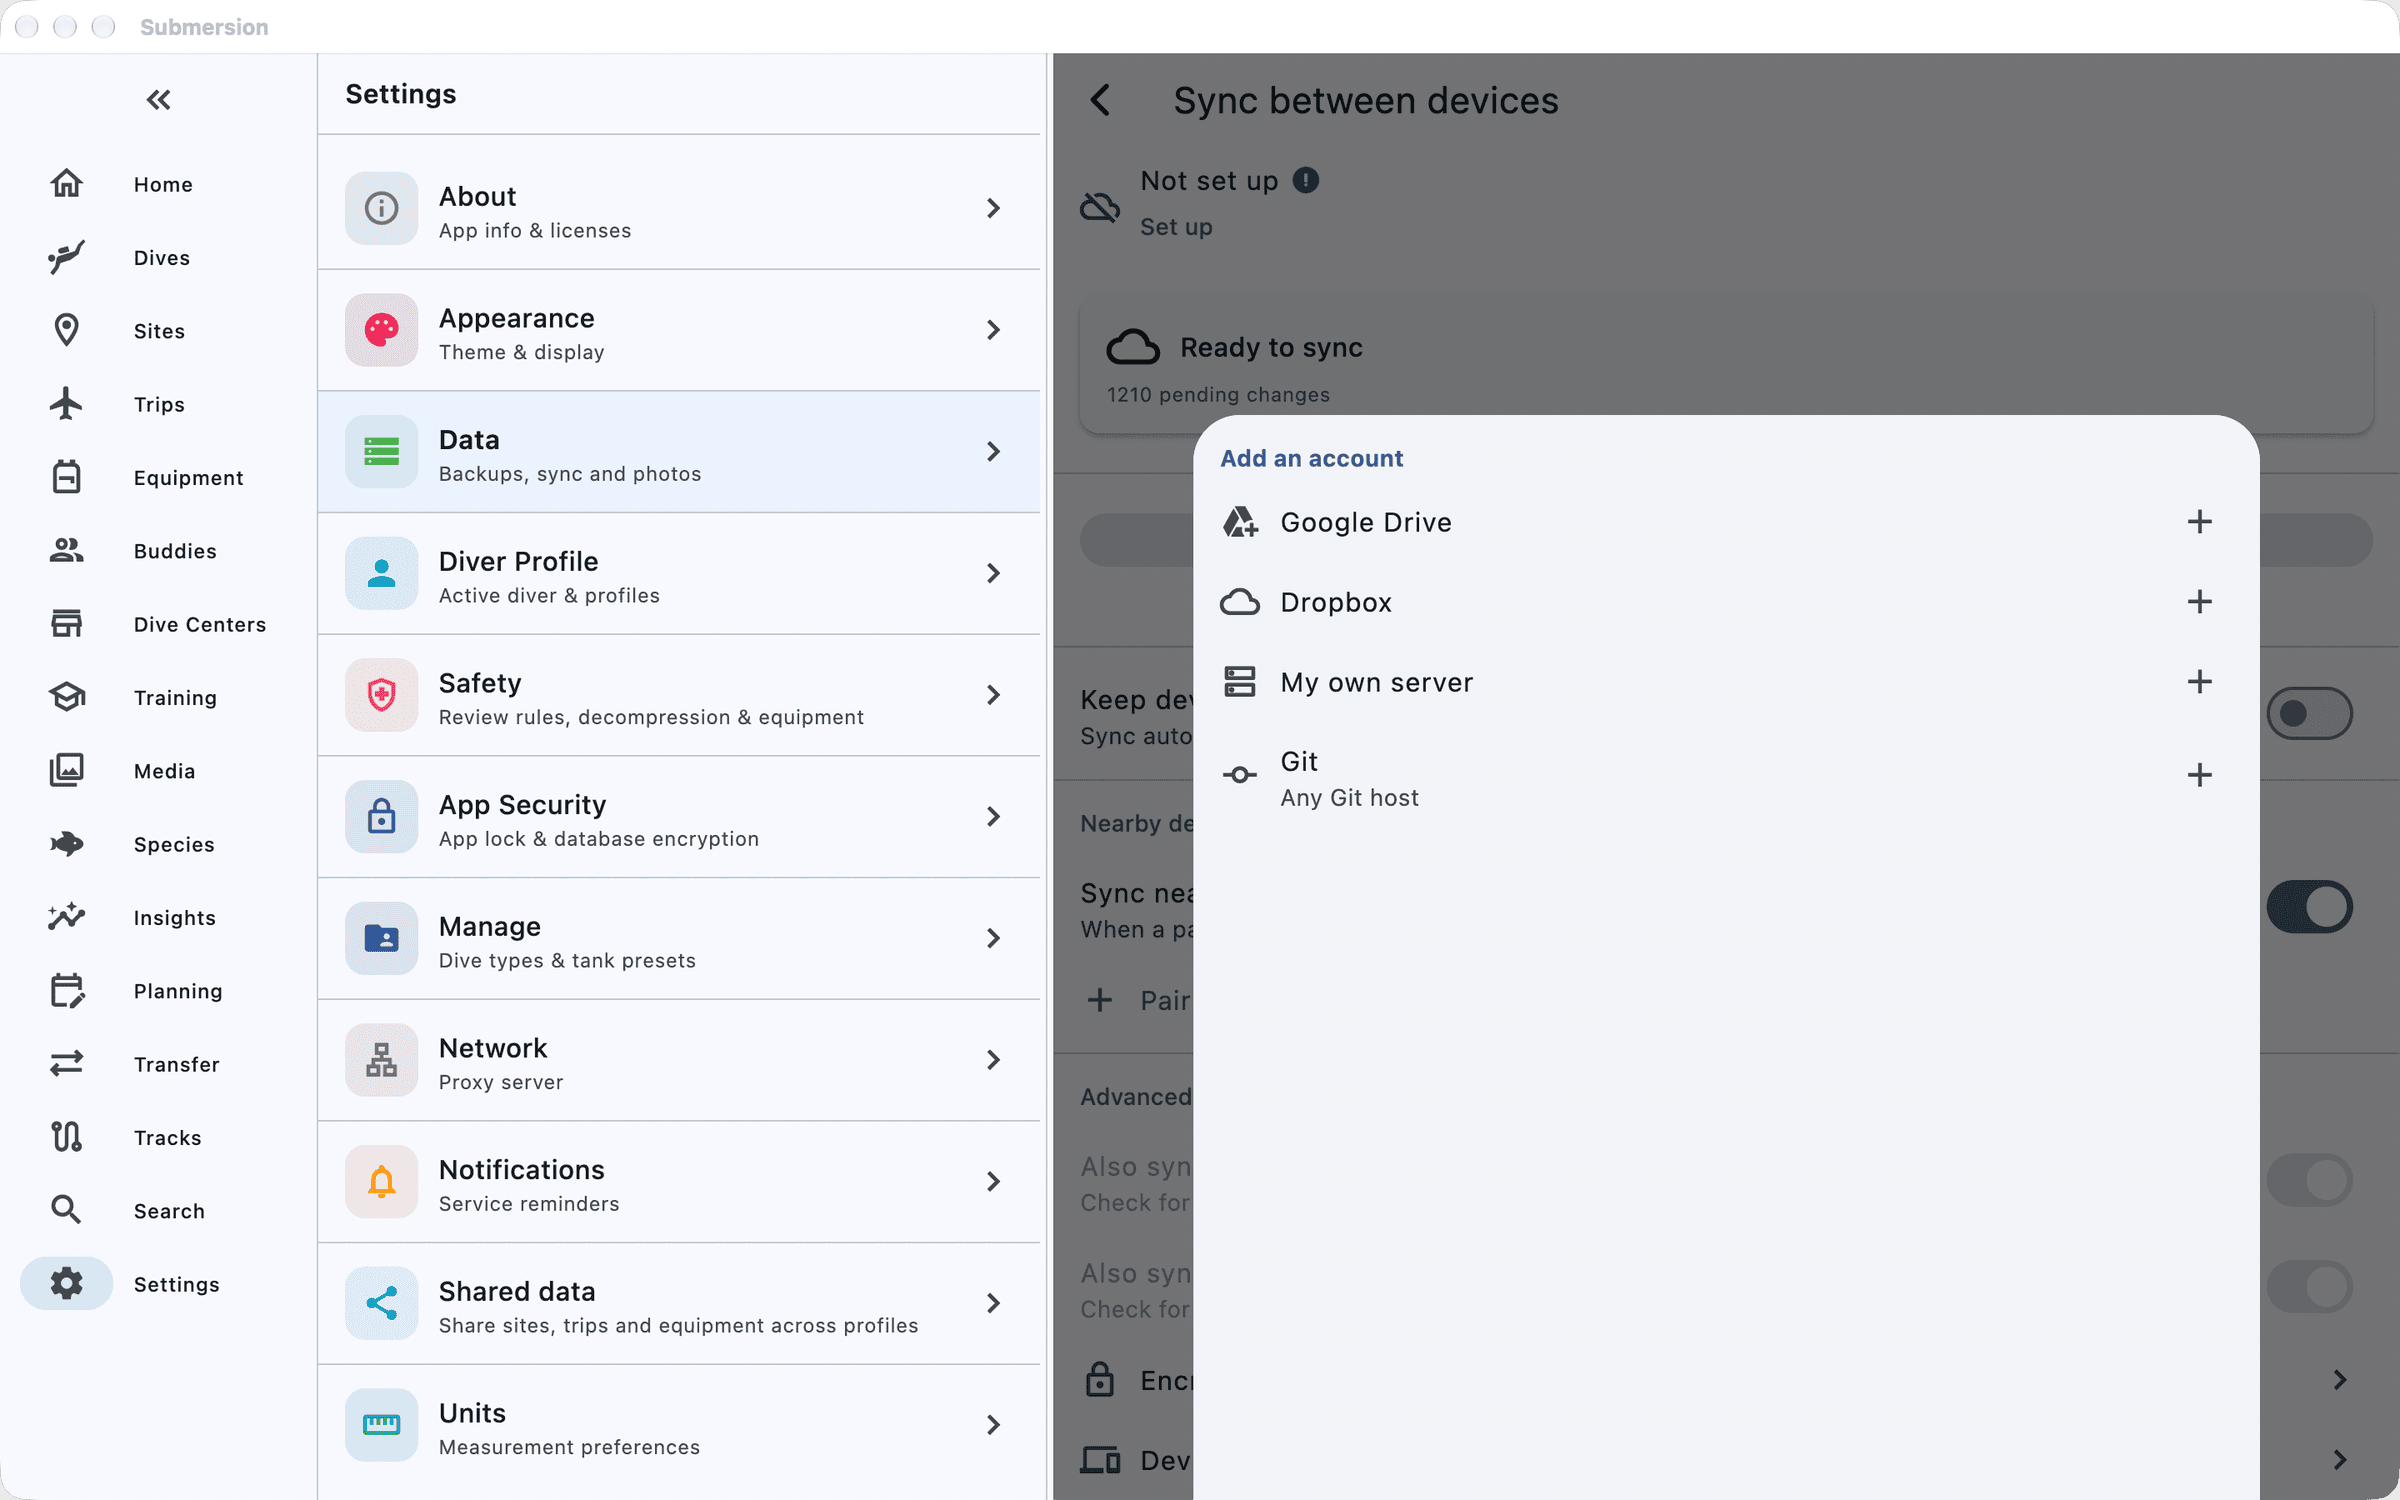
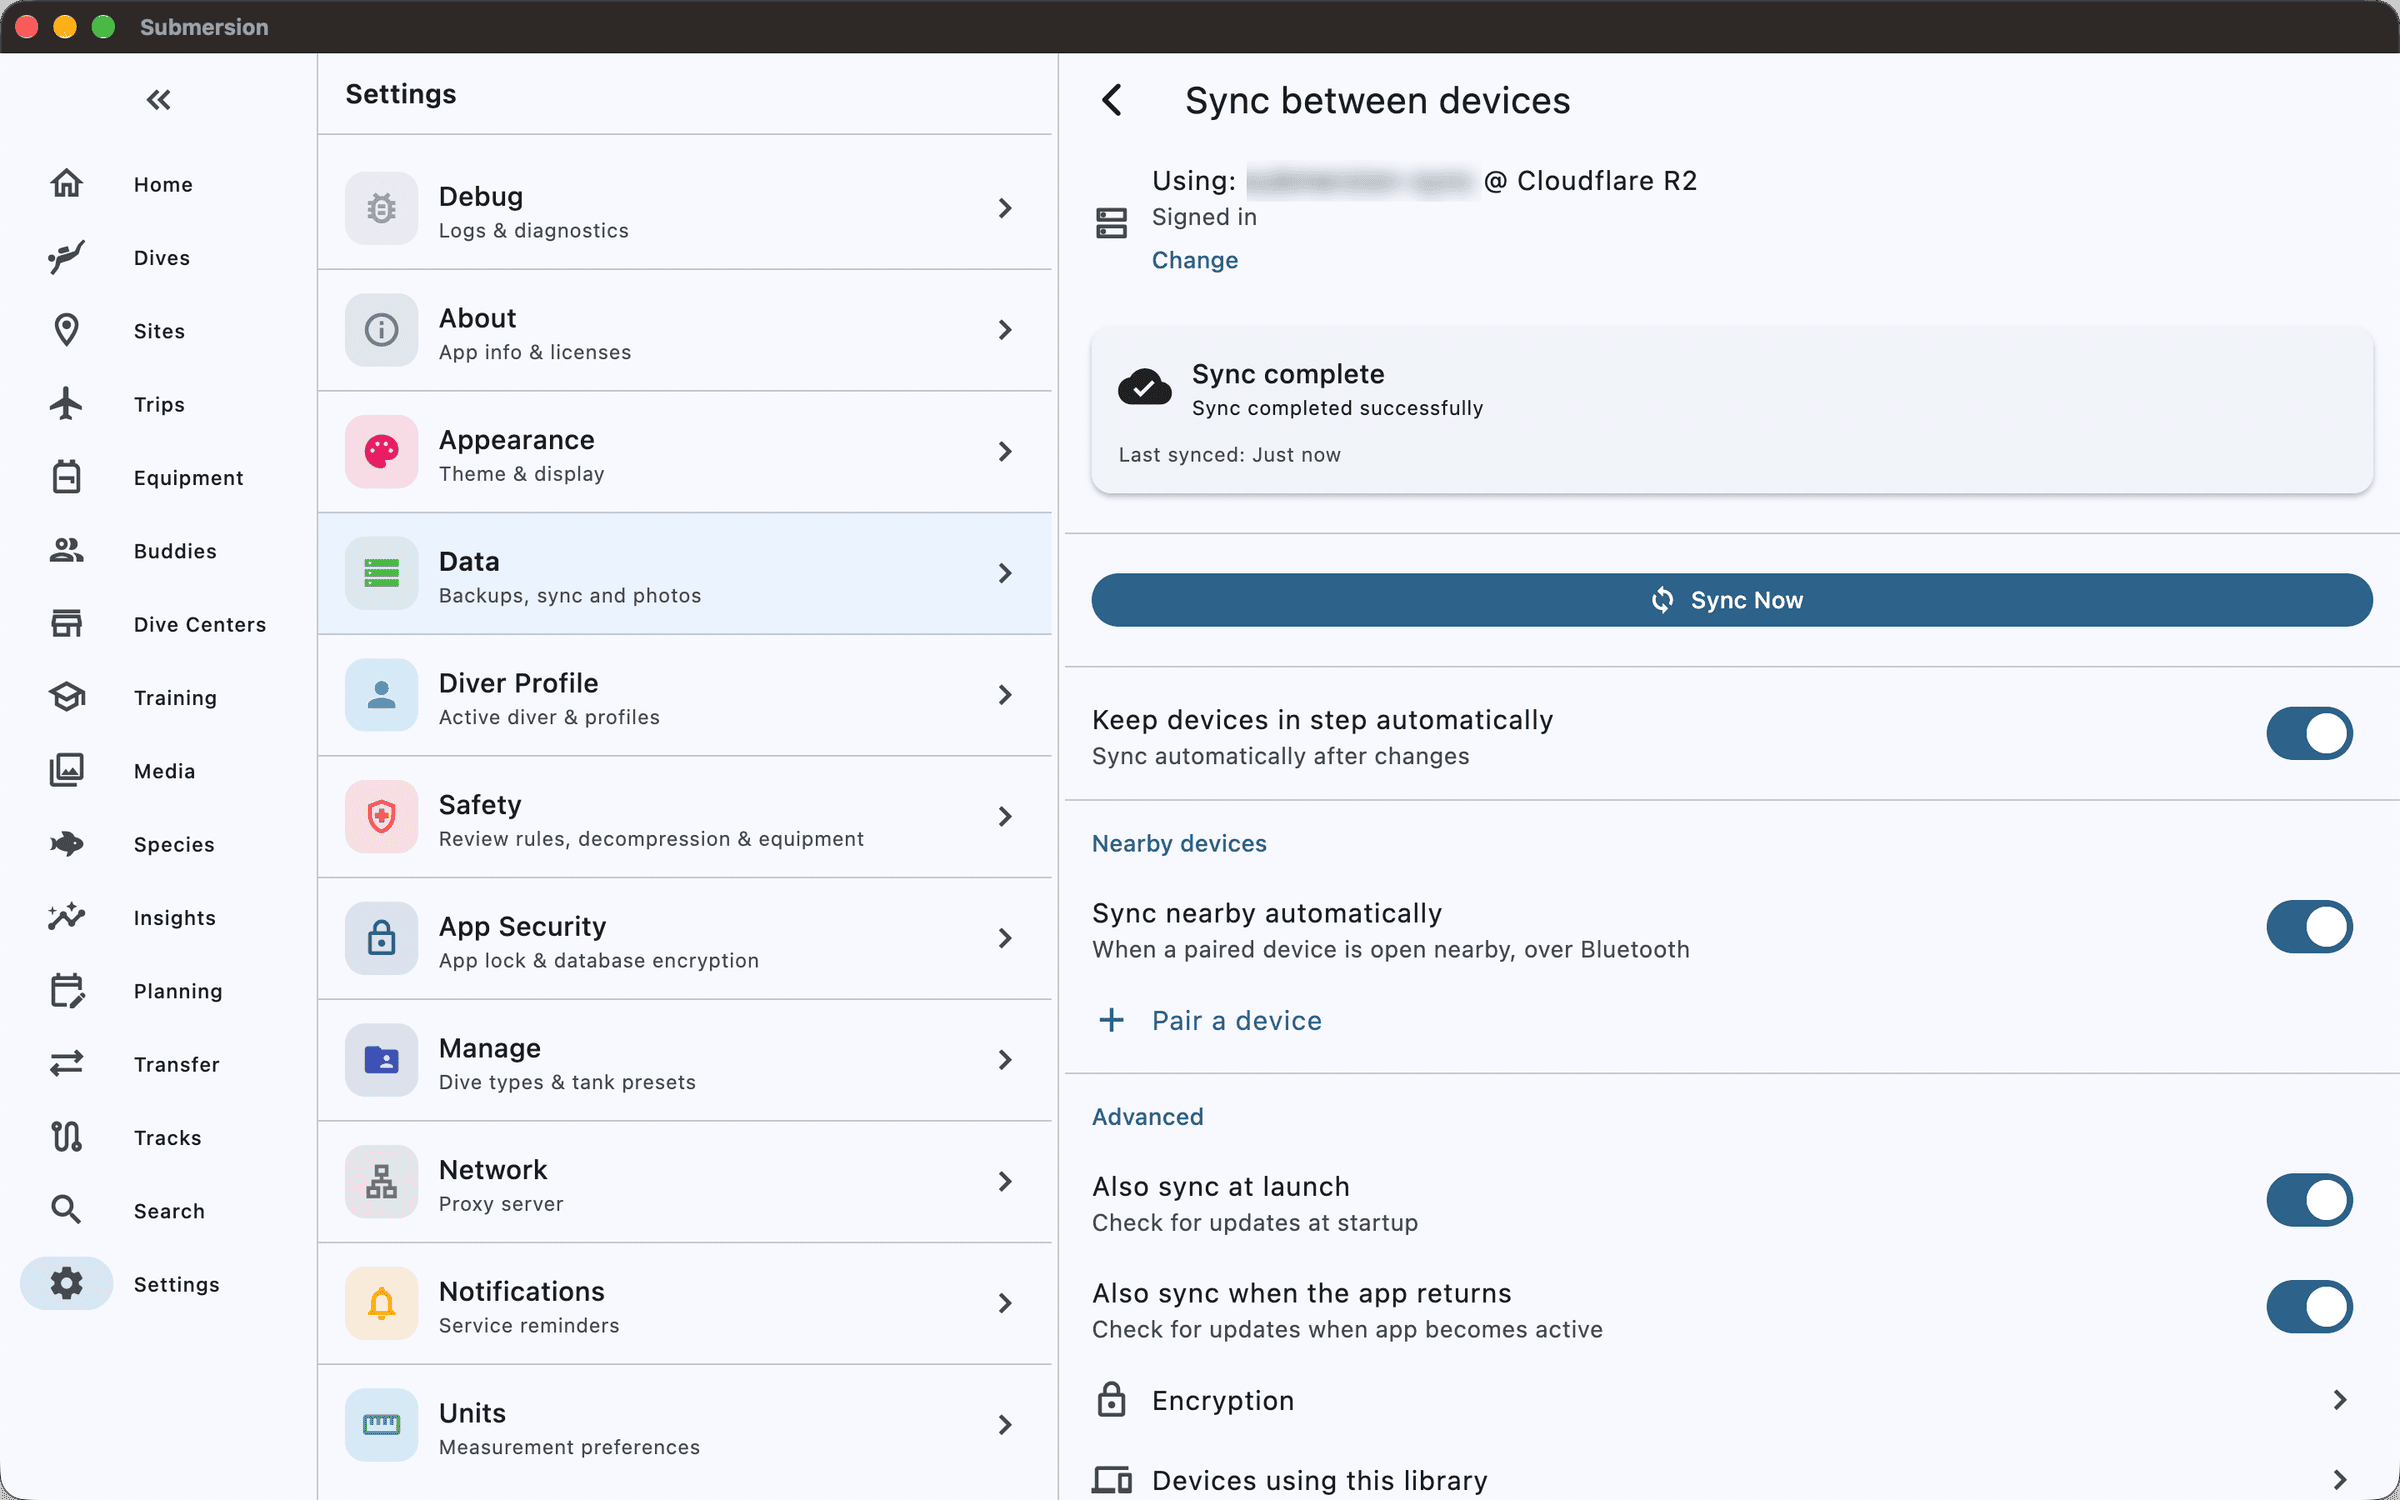
feat(site): the sync page, connected, in the Storage and sync row
Eric's connected Sync between devices page replaces the add-account
sheet; the bucket name is blurred.

diff --git a/index.html b/index.html
@@ -486,7 +486,7 @@
                 <p>Data is stored on your devices. Sync runs through Google Drive, Dropbox, S3, WebDAV or Git, or iCloud on iPhone and iPad, with optional end-to-end encryption.</p>
               </div>
               <figure class="feature-visual">
-                <img class="showcase-img" src="screenshots/sync-storage.png" alt="Sync between devices with the add-account choices: Google Drive, Dropbox, your own server or a Git host" width="2400" height="1500" loading="lazy" decoding="async" />
+                <img class="showcase-img" src="screenshots/sync-storage.png" alt="Sync between devices, connected to S3-compatible storage on Cloudflare R2: sync complete, with automatic sync, nearby Bluetooth sync, sync at launch and on return, and encryption settings" width="2400" height="1500" loading="lazy" decoding="async" />
               </figure>
             </div>
             <div class="feature-cards">

diff --git a/docs/superpowers/specs/2026-11-22-three-act-story-design.md b/docs/superpowers/specs/2026-11-22-three-act-story-design.md
@@ -187,3 +187,4 @@ Eric reviewed the built page and changed these; where they differ from the secti
 - **Rows, 2026-11-25:** the download row shows the duplicate review (sample logbook; the two computer serial numbers blurred). Sites is its own row with the seascape. A new Photos and species row (`media`, the legacy anchor) shows the media browser (Eric's logbook) with the species clip inset (a paused-playback still was tried and dropped); the clip now shows the app window around the video (dark mode, as recorded; the pointer is blended out). Species identification is described for all media.
 - **Platforms row (`platforms`, Eric, 2026-11-25):** just before Download, the same dive (USS Algol #683, sample logbook) on the Mac app, an iPad and an iPhone (iOS Simulator, debug build of `main`), layered in one figure, with cards for iPhone and iPad, Android, desktop and one logbook across devices.
 - **Sites row (Eric, 2026-11-25):** the site map viewer (Eric's logbook: Bonaire with catalogue sites clustered and a heat map of sites dived) leads, with the 3D seascape inset at the lower left so the map stays in view.
+- **Storage and sync row (Eric, 2026-11-25):** the connected Sync between devices page from Eric's logbook replaces the add-account sheet; the bucket name is blurred.
